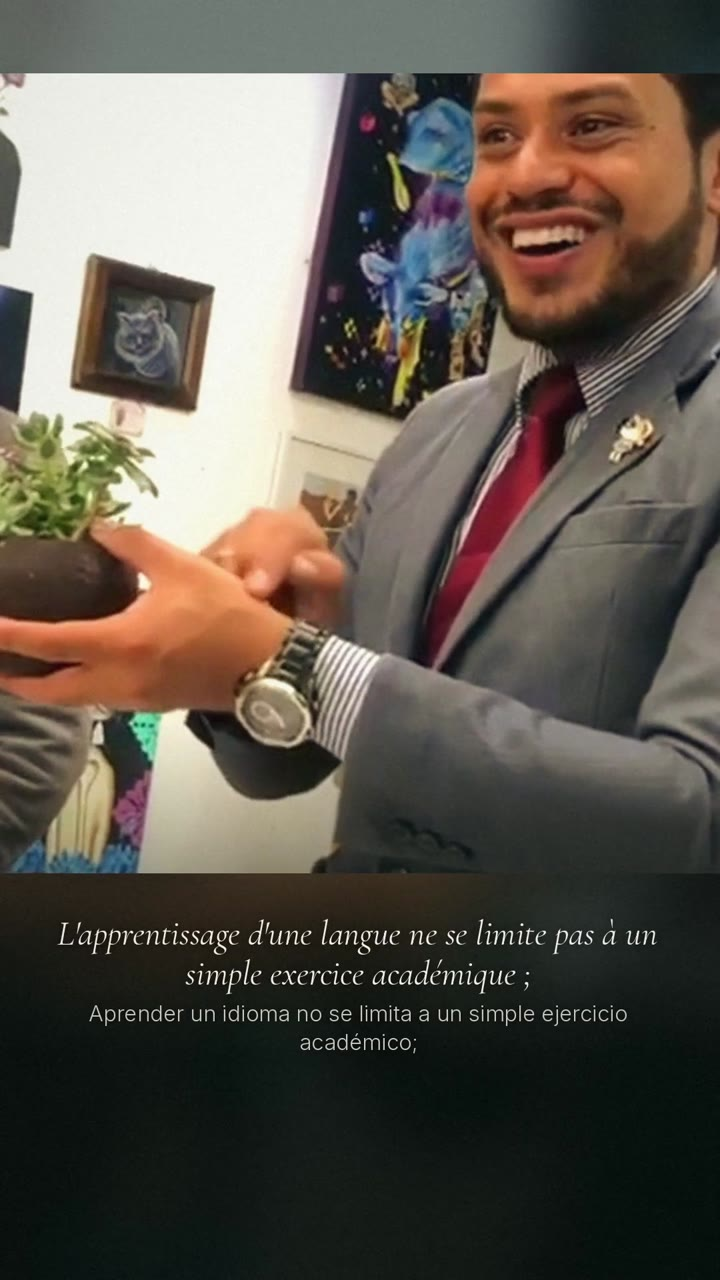
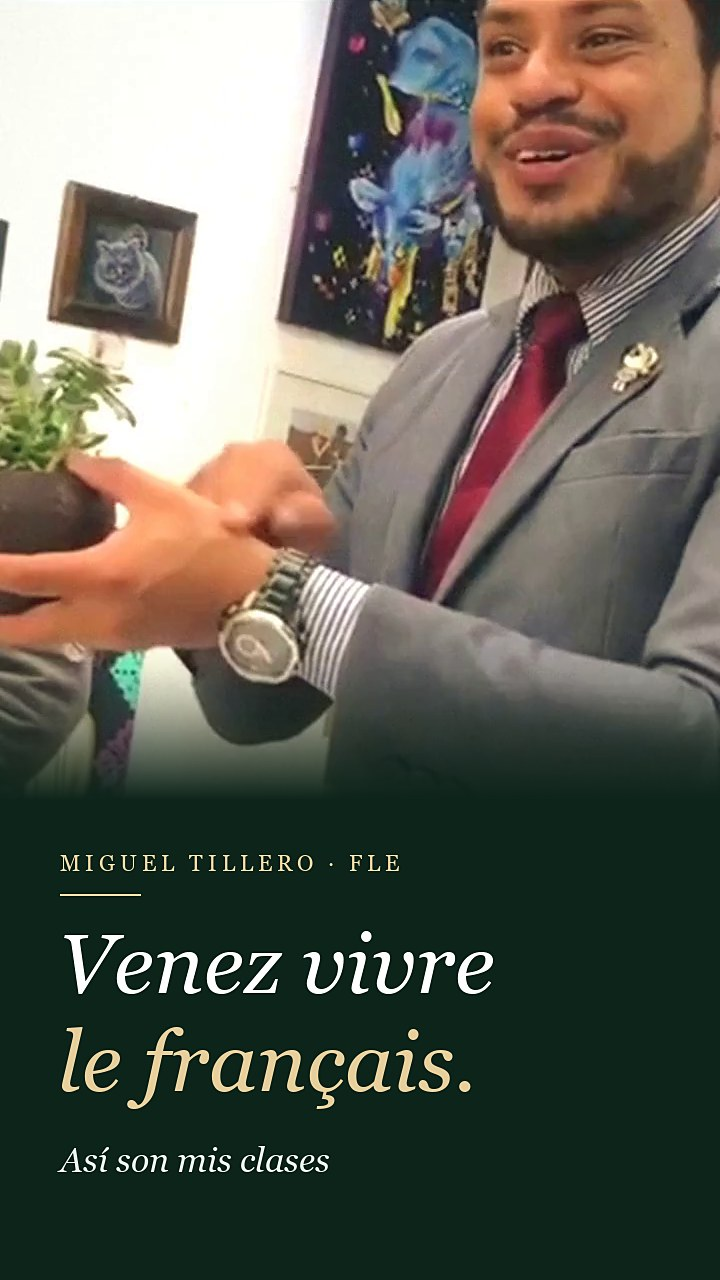
fix: fotos reales del rodaje, encuadres sin solapes, miniaturas nuevas del video de clases y botón Vendredi compacto
- Banda de novedad e inicio: fondo con la foto del rodaje de Destination Francophonie (no la de la entrevista
  del video promocional); tarjeta del cartel sin rotación ni solape.
- Capítulo del documental: suma las otras dos fotos del rodaje.
- Video «Así son mis clases»: miniaturas diseñadas (16:9 y 9:16) con retrato sonriendo y título.
- Botón flotante Vendredi entre Amis: solo icono hasta pasar el cursor, para no tapar videos y fotos.
- sitio.css?v=2 para forzar la descarga del CSS nuevo.

diff --git a/perfil.html b/perfil.html
@@ -12,7 +12,7 @@
 <script src="https://cdnjs.cloudflare.com/ajax/libs/three.js/r134/three.min.js"></script>
 <script src="https://cdn.jsdelivr.net/npm/vanta@latest/dist/vanta.net.min.js"></script>
 
-<link rel="stylesheet" href="assets/css/sitio.css?v=1">
+<link rel="stylesheet" href="assets/css/sitio.css?v=2">
 <link rel="stylesheet" href="assets/css/relato.css">
 <link rel="stylesheet" href="assets/css/video-carrusel.css">
 <link rel="stylesheet" href="assets/css/fondos.css?v=1">
@@ -410,7 +410,7 @@
     </div>
   </div>
 </section>
-<section id="novedad" class="banda-foto z10" data-page="perfil" style="--fondo:url('../images/relato/rodaje-entrevista.jpg');--pos:72% 40%;">
+<section id="novedad" class="banda-foto z10" data-page="perfil" style="--fondo:url('../images/relato/rodaje-af-2.jpg');--pos:50% 55%;--velo:linear-gradient(rgba(9,30,20,0.86),rgba(9,30,20,0.86));">
   <div class="container nov-grid">
     <div>
       <p class="eyebrow"><span class="nov-punto"></span><span data-es="Novedad" data-fr="Nouveauté" data-en="News">Novedad</span></p>

diff --git a/index.html b/index.html
@@ -14,7 +14,7 @@
 <script src="https://cdnjs.cloudflare.com/ajax/libs/three.js/r134/three.min.js"></script>
 <script src="https://cdn.jsdelivr.net/npm/vanta@latest/dist/vanta.net.min.js"></script>
 
-<link rel="stylesheet" href="assets/css/sitio.css?v=1">
+<link rel="stylesheet" href="assets/css/sitio.css?v=2">
 <style>
 .services-grid {
   display: grid; grid-template-columns: repeat(auto-fit, minmax(210px,1fr));
@@ -451,7 +451,7 @@
     </div>
   </div>
 </section>
-<section id="novedad-tira" class="banda-foto compacta z10" data-page="inicio" style="--fondo:url('../images/relato/rodaje-entrevista.jpg');--pos:62% 40%;">
+<section id="novedad-tira" class="banda-foto compacta z10" data-page="inicio" style="--fondo:url('../images/relato/rodaje-af-2.jpg');--pos:50% 55%;--velo:linear-gradient(rgba(9,30,20,0.86),rgba(9,30,20,0.86));">
   <div class="container nov-tira">
     <div class="nov-tira-txt">
       <span class="eyebrow"><span class="nov-punto"></span><span data-es="Novedad" data-fr="Nouveauté" data-en="News">Novedad</span></span>

diff --git a/assets/css/fondos.css b/assets/css/fondos.css
@@ -32,7 +32,7 @@
 .nov-pill b { font-family: 'Cormorant Garamond', serif; font-weight: 600; font-size: 1.2rem; color: #fff; }
 .nov-texto { font-size: 0.98rem; line-height: 1.75; max-width: 58ch; margin: 0 0 1.4rem; }
 .nov-nota { font-family: 'Space Mono', monospace; font-size: 0.58rem; letter-spacing: 0.08em; color: rgba(255,255,255,0.6) !important; margin: 1rem 0 0; }
-.nov-tarjeta { margin: 0; border-radius: 18px; overflow: hidden; box-shadow: 0 26px 60px rgba(0,0,0,0.5); border: 1px solid rgba(255,255,255,0.16); transform: rotate(1.4deg); }
+.nov-tarjeta { margin: 0; border-radius: 18px; overflow: hidden; box-shadow: 0 26px 60px rgba(0,0,0,0.5); border: 1px solid rgba(255,255,255,0.16); justify-self: center; width: min(100%, 380px); }
 .nov-tarjeta img { display: block; width: 100%; height: auto; }
 .nov-tarjeta figcaption { padding: 0.6rem 0.9rem; font-family: 'Space Mono', monospace; font-size: 0.56rem; letter-spacing: 0.1em; text-transform: uppercase; background: #0b1712; color: rgba(255,255,255,0.7); }
 

diff --git a/assets/css/sitio.css b/assets/css/sitio.css
@@ -1496,6 +1496,12 @@ body.intro-active { overflow: hidden; }
   animation: vendrediGradiente 5s ease infinite, vendrediPulso 2.6s ease-in-out infinite;
   transition: padding 0.3s ease, transform 0.3s ease;
 }
+/* Cerrado por defecto para no tapar el contenido (videos, fotos) al borde derecho:
+   solo se ve el icono; el texto se despliega al pasar el cursor o al enfocarlo. */
+#vendredi-fab { gap: 0; }
+#vendredi-fab .vf-text { max-width: 0; overflow: hidden; opacity: 0; margin-left: 0; transition: max-width 0.35s ease, opacity 0.25s ease, margin 0.35s ease; }
+#vendredi-fab:hover, #vendredi-fab:focus-visible { gap: 0.55rem; }
+#vendredi-fab:hover .vf-text, #vendredi-fab:focus-visible .vf-text { max-width: 14rem; opacity: 1; }
 #vendredi-fab:hover { padding-right: 1.7rem; transform: translateY(-50%) scale(1.05); }
 #vendredi-fab i { font-size: 1.05rem; }
 @keyframes vendrediGradiente { 0%, 100% { background-position: 0% 50%; } 50% { background-position: 100% 50%; } }

diff --git a/contacto.html b/contacto.html
@@ -12,7 +12,7 @@
 <script src="https://cdnjs.cloudflare.com/ajax/libs/three.js/r134/three.min.js"></script>
 <script src="https://cdn.jsdelivr.net/npm/vanta@latest/dist/vanta.net.min.js"></script>
 
-<link rel="stylesheet" href="assets/css/sitio.css?v=1">
+<link rel="stylesheet" href="assets/css/sitio.css?v=2">
 <link rel="stylesheet" href="assets/css/fondos.css?v=1">
 <style>
 .hero-langs {

diff --git a/cursos.html b/cursos.html
@@ -12,7 +12,7 @@
 <script src="https://cdnjs.cloudflare.com/ajax/libs/three.js/r134/three.min.js"></script>
 <script src="https://cdn.jsdelivr.net/npm/vanta@latest/dist/vanta.net.min.js"></script>
 
-<link rel="stylesheet" href="assets/css/sitio.css?v=1">
+<link rel="stylesheet" href="assets/css/sitio.css?v=2">
 <link rel="stylesheet" href="assets/css/fondos.css?v=1">
 <style>
 .hero-langs {

diff --git a/inscribete.html b/inscribete.html
@@ -12,7 +12,7 @@
 <script src="https://cdnjs.cloudflare.com/ajax/libs/three.js/r134/three.min.js"></script>
 <script src="https://cdn.jsdelivr.net/npm/vanta@latest/dist/vanta.net.min.js"></script>
 
-<link rel="stylesheet" href="assets/css/sitio.css?v=1">
+<link rel="stylesheet" href="assets/css/sitio.css?v=2">
 <link rel="stylesheet" href="assets/css/fondos.css?v=1">
 <style>
 .hero-langs {

diff --git a/reservar.html b/reservar.html
@@ -12,7 +12,7 @@
 <script src="https://cdnjs.cloudflare.com/ajax/libs/three.js/r134/three.min.js"></script>
 <script src="https://cdn.jsdelivr.net/npm/vanta@latest/dist/vanta.net.min.js"></script>
 
-<link rel="stylesheet" href="assets/css/sitio.css?v=1">
+<link rel="stylesheet" href="assets/css/sitio.css?v=2">
 <link rel="stylesheet" href="assets/css/fondos.css?v=1">
 <style>
 .hero-langs {

diff --git a/servicios.html b/servicios.html
@@ -12,7 +12,7 @@
 <script src="https://cdnjs.cloudflare.com/ajax/libs/three.js/r134/three.min.js"></script>
 <script src="https://cdn.jsdelivr.net/npm/vanta@latest/dist/vanta.net.min.js"></script>
 
-<link rel="stylesheet" href="assets/css/sitio.css?v=1">
+<link rel="stylesheet" href="assets/css/sitio.css?v=2">
 <link rel="stylesheet" href="assets/css/fondos.css?v=1">
 <style>
 .hero-langs {

diff --git a/testimonios.html b/testimonios.html
@@ -12,7 +12,7 @@
 <script src="https://cdnjs.cloudflare.com/ajax/libs/three.js/r134/three.min.js"></script>
 <script src="https://cdn.jsdelivr.net/npm/vanta@latest/dist/vanta.net.min.js"></script>
 
-<link rel="stylesheet" href="assets/css/sitio.css?v=1">
+<link rel="stylesheet" href="assets/css/sitio.css?v=2">
 <link rel="stylesheet" href="assets/css/fondos.css?v=1">
 <style>
 .hero-langs {

diff --git a/galeria.html b/galeria.html
@@ -13,7 +13,7 @@
 <script src="https://cdnjs.cloudflare.com/ajax/libs/three.js/r134/three.min.js"></script>
 <script src="https://cdn.jsdelivr.net/npm/vanta@latest/dist/vanta.net.min.js"></script>
 
-<link rel="stylesheet" href="assets/css/sitio.css?v=1">
+<link rel="stylesheet" href="assets/css/sitio.css?v=2">
 <link rel="stylesheet" href="assets/css/album.css?v=1">
 <style>
 .hero-langs {

diff --git a/pagos.html b/pagos.html
@@ -12,7 +12,7 @@
 <script src="https://cdnjs.cloudflare.com/ajax/libs/three.js/r134/three.min.js"></script>
 <script src="https://cdn.jsdelivr.net/npm/vanta@latest/dist/vanta.net.min.js"></script>
 
-<link rel="stylesheet" href="assets/css/sitio.css?v=1">
+<link rel="stylesheet" href="assets/css/sitio.css?v=2">
 <style>
 .hero-langs {
   display: flex; gap: 1.5rem; margin-bottom: 2.5rem;
